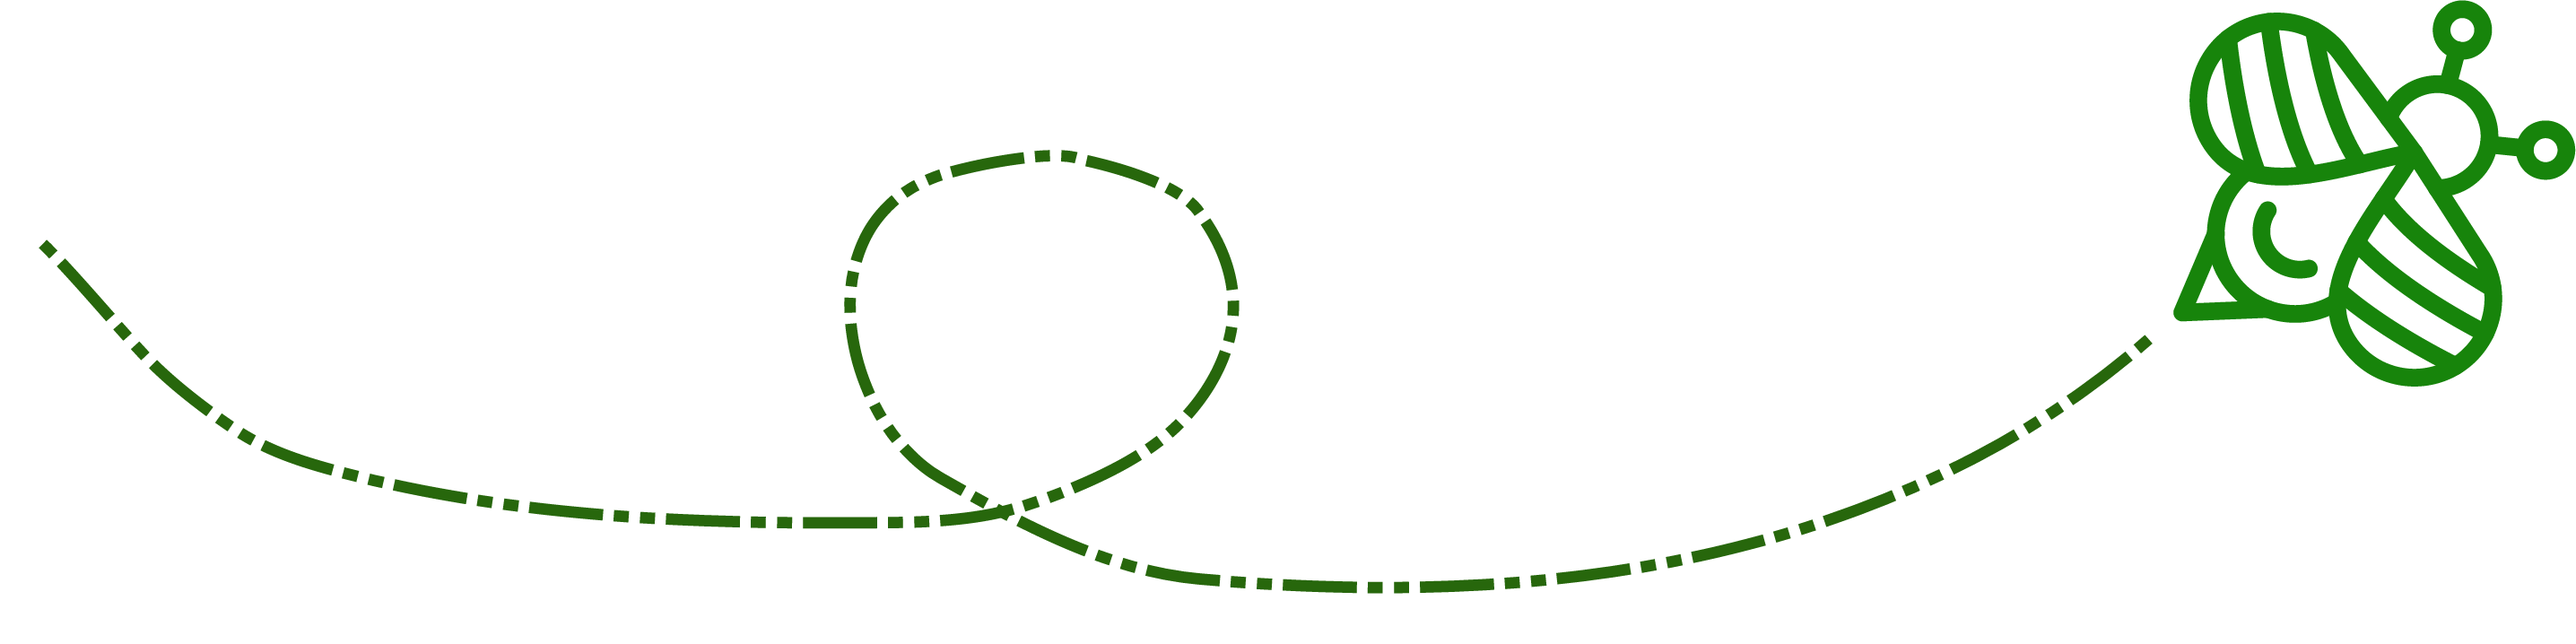
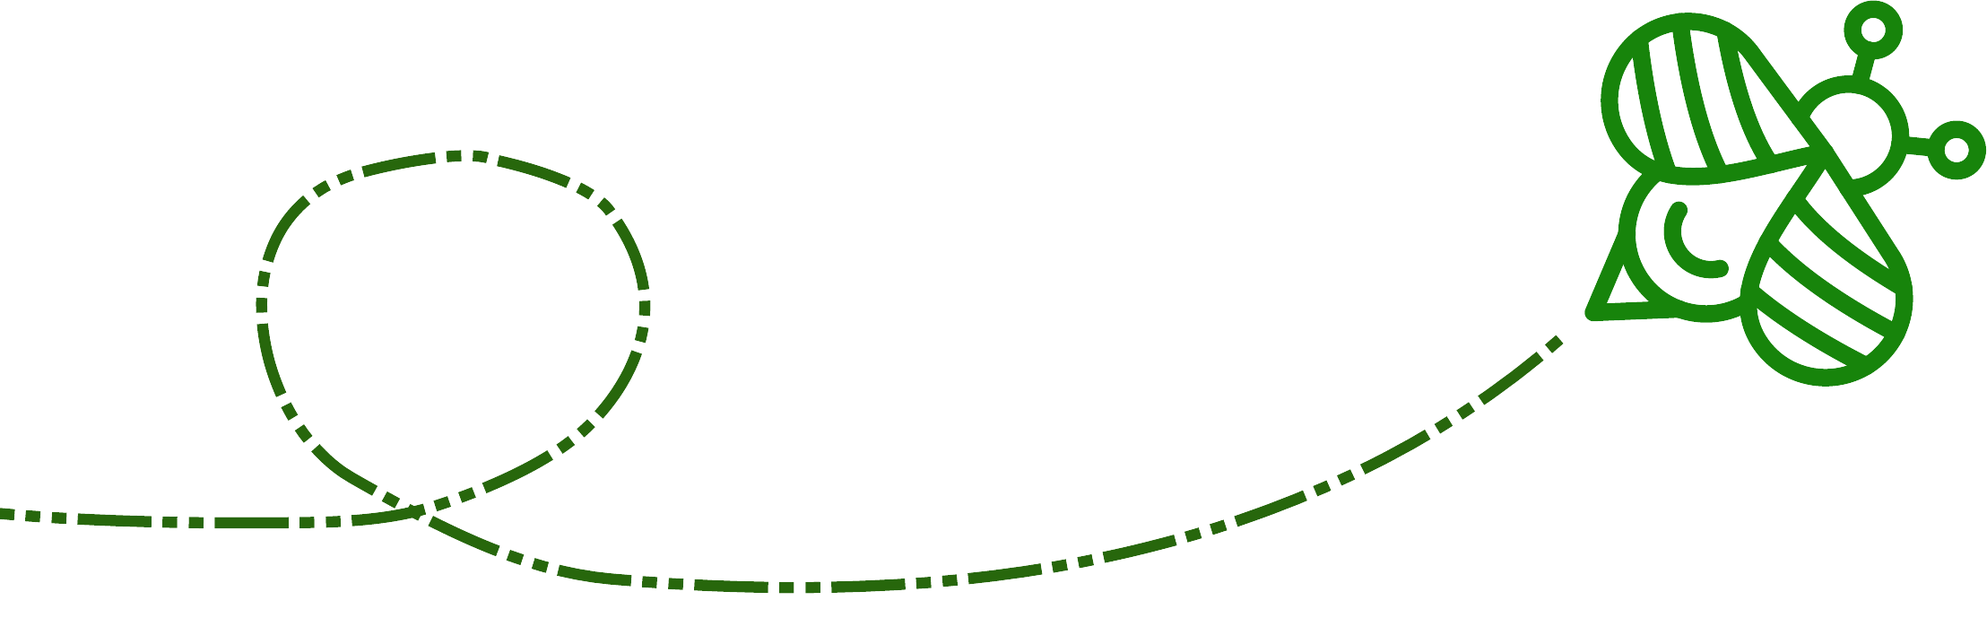
Add fifth section

diff --git a/DevHiv/index.html b/DevHiv/index.html
@@ -12,7 +12,7 @@
   <body>
     <header>
       <div class="logo">
-        <img src="Assests/imgaes/icon/main-icon.png" alt="" />
+        <img src="Assests/imgaes/icon/main-icon.png" alt="DevHiv logo" />
       </div>
       <nav>
         <ul>
@@ -73,21 +73,27 @@
         <div class="allBoxes">
           <div class="bigger">
             <p>رزومه پویا و آنلاین!</p>
-            <p>
-              از مشارکت در تالارهای گفتگو و کــدهای دیبـاگ شـــده، پروژهها و
-              تجاربکاری تــــا کارفرماها و زنبورهای دیگهای که با اونهــا از
-              طریق کندو ارتباط گرفتید، همه در پروفایل کاربری شما نمایش داده میشن
-              تا یک رزومه پویا و آنلاین داشته باشید.
-            </p>
-          </div>
-          <div class="smaller">
-            <p>از حرفه ای ها کمک بگیر!</p>
-            <div class="boxPicture">
-              <img src="Assests/imgaes/networking-icon.png" alt="" />
+            <div class="container">
+              <span>
+                از مشارکت در تالارهای گفتگو و کــدهای دیبـاگ شـــده، پروژهها و
+                تجاربکاری تــــا کارفرماها و زنبورهای دیگهای که با اونهــا از
+                طریق کندو ارتباط گرفتید، همه در پروفایل کاربری شما نمایش داده
+                میشن تا یک رزومه پویا و آنلاین داشته باشید.
+              </span>
+              <img
+                src="Assests/imgaes/icon/resume-icon.png"
+                alt="bee and hiv"
+              />
             </div>
           </div>
           <div class="smaller">
+            <p>از حرفه ای ها کمک بگیر!</p>
+          </div>
+          <div class="smaller">
             <p>دیگه نگران شبکه سازی نباش!</p>
+            <div class="boxPicture">
+              <img src="Assests/imgaes/networking-icon.png" alt="networking" />
+            </div>
           </div>
           <div class="bigger">
             <p>وقت طلاست!</p>
@@ -186,9 +192,62 @@
           </div>
         </div>
       </section>
+      <section class="fifthSection">
+        <div class="kandoo">
+          <img src="Assests/imgaes/section4-bee-hive.png" alt="bee-hive" />
+          <p>توی کندو خبرهای خوبی هست...</p>
+          <img
+            src="Assests/imgaes/section4-bee-dashed-line.png"
+            alt="bee-dashed-line"
+          />
+        </div>
+      </section>
     </main>
 
-    <footer></footer>
+    <footer>
+      <div class="container">
+        <div>
+          <div>
+            <ul>
+              <a href="">
+                <li></li>
+              </a>
+              <a href="">
+                <li></li>
+              </a>
+              <a href="">
+                <li></li>
+              </a>
+              <a href="">
+                <li></li>
+              </a>
+              <a href="">
+                <li></li>
+              </a>
+              <a href="">
+                <li></li>
+              </a>
+              <a href="">
+                <li></li>
+              </a>
+            </ul>
+          </div>
+          <div></div>
+          <div></div>
+        </div>
+        <div>
+          <iframe
+            src="https://www.google.com/maps/embed?pb=!1m18!1m12!1m3!1d675.7858672713543!2d59.51515763220323!3d36.322067631352866!2m3!1f0!2f0!3f0!3m2!1i1024!2i768!4f13.1!3m3!1m2!1s0x3f6c93cd2ab60d6d%3A0x82bb5c13ba641f01!2sPart%20Software%20Group!5e0!3m2!1sen!2s!4v1728559427965!5m2!1sen!2s"
+            width="600"
+            height="450"
+            style="border: 0"
+            allowfullscreen=""
+            loading="lazy"
+            referrerpolicy="no-referrer-when-downgrade"
+          ></iframe>
+        </div>
+      </div>
+    </footer>
     <script src="JS/script.js"></script>
   </body>
 </html>

diff --git a/DevHiv/CSS/indexStyle/index-style.css b/DevHiv/CSS/indexStyle/index-style.css
@@ -81,11 +81,23 @@ main .secondSection .allBoxes .bigger {
 main .secondSection .allBoxes .bigger:first-of-type {
   margin-left: 10px;
 }
+main .secondSection .allBoxes .bigger:first-of-type .container {
+  display: flex;
+  justify-content: space-around;
+  flex-wrap: wrap;
+}
+main .secondSection .allBoxes .bigger:first-of-type .container span {
+  width: 65%;
+}
+main .secondSection .allBoxes .bigger:first-of-type .container img {
+  width: 30%;
+}
 main .secondSection .allBoxes .bigger .clock {
   text-align: center;
   color: #05801f;
   font-family: Digital Numbers;
-  font-size: clamp(20px, 4vw, 100px);
+  font-size: clamp(10px, 4vw, 100px);
+  margin-top: 20%;
 }
 main .secondSection .allBoxes .smaller {
   width: 30%;
@@ -96,8 +108,12 @@ main .secondSection .allBoxes .smaller {
   margin-bottom: 20px;
   margin-left: 10px;
 }
+main .secondSection .allBoxes .smaller .boxPicture {
+  display: flex;
+  justify-content: center;
+}
 main .secondSection .allBoxes .smaller .boxPicture img {
-  width: 20px;
+  width: 80%;
 }
 main .thirdSection {
   margin-top: 7%;
@@ -110,6 +126,9 @@ main .thirdSection p {
 }
 main .thirdSection p span {
   color: #058022;
+}
+main .fourthSection {
+  margin-top: 7%;
 }
 main .fourthSection .all {
   width: 100%;
@@ -157,4 +176,24 @@ main .slider .slider-wrapper img {
   100% {
     transform: translateX(200px);
   }
+}
+main .fifthSection {
+  margin-top: 7%;
+}
+main .fifthSection .kandoo {
+  display: flex;
+  align-items: center;
+  justify-content: space-between;
+  color: white;
+}
+main .fifthSection .kandoo p {
+  position: absolute;
+  right: 20%;
+  font-size: clamp(10px, 2vw, 30px);
+}
+main .fifthSection .kandoo img:first-of-type {
+  width: 33%;
+}
+main .fifthSection .kandoo img:last-of-type {
+  width: 50%;
 }/*# sourceMappingURL=index-style.css.map */

diff --git a/DevHiv/CSS/indexStyle/index-style.scss b/DevHiv/CSS/indexStyle/index-style.scss
@@ -100,12 +100,24 @@ main {
         @include box-style;
         &:first-of-type {
           margin-left: 10px;
+          .container {
+            display: flex;
+            justify-content: space-around;
+            flex-wrap: wrap;
+            span {
+              width: 65%;
+            }
+            img {
+              width: 30%;
+            }
+          }
         }
         .clock {
           text-align: center;
           color: #05801f;
           font-family: Digital Numbers;
-          font-size: clamp(20px, 4vw, 100px);
+          font-size: clamp(10px, 4vw, 100px);
+          margin-top: 20%;
         }
       }
 
@@ -116,8 +128,10 @@ main {
         margin-left: 10px;
 
         .boxPicture {
+          display: flex;
+          justify-content: center;
           img {
-            width: 20px;
+            width: 80%;
           }
         }
       }
@@ -139,6 +153,7 @@ main {
   }
 
   .fourthSection {
+    margin-top: 7%;
     .all {
       width: 100%;
       .cards {
@@ -188,6 +203,28 @@ main {
     }
     100% {
       transform: translateX(200px);
+    }
+  }
+  .fifthSection {
+    margin-top: 7%;
+    .kandoo {
+      display: flex;
+      align-items: center;
+      justify-content: space-between;
+      color: white;
+      p {
+        position: absolute;
+        right: 20%;
+        font-size: clamp(10px, 2vw, 30px);
+      }
+      img {
+        &:first-of-type {
+          width: 33%;
+        }
+        &:last-of-type {
+          width: 50%;
+        }
+      }
     }
   }
 }
